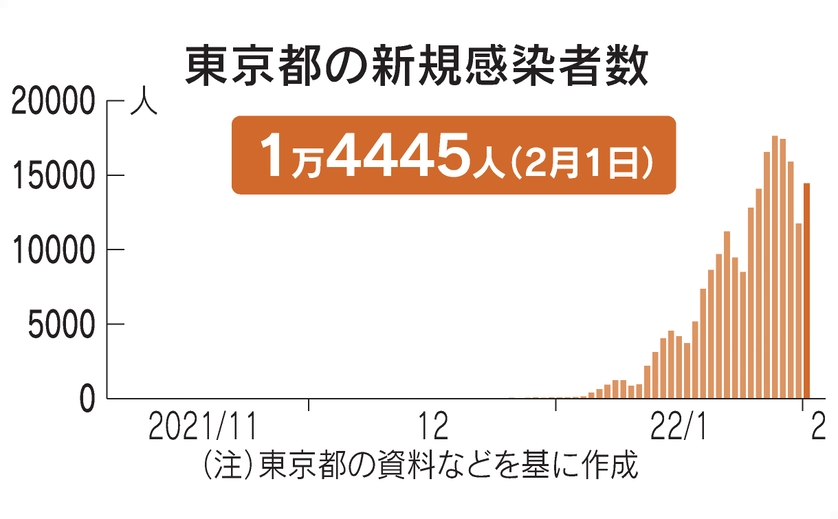
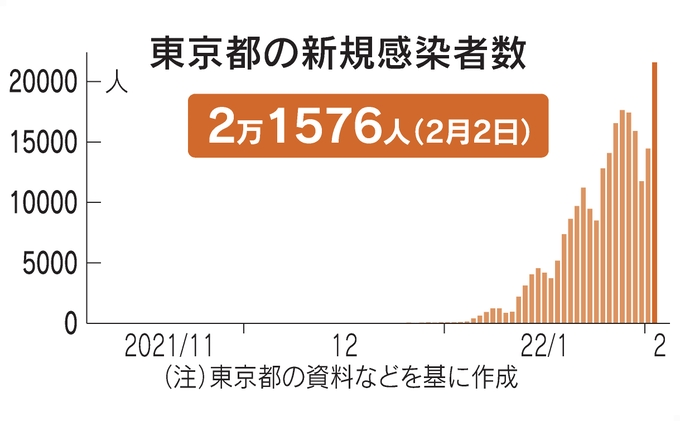
regular update

diff --git a/parts/news.php b/parts/news.php
@@ -40,6 +40,25 @@
         </li> 
 
     <hr> -->
+         2022年02月02日
+    
+        <li>
+                <i class="far fa-file-alt"></i>
+                <a href="https://www.nikkei.com/article/DGXZQOCC0234W0S2A200C2000000/" target="blank" rel="noopener">
+                東京都、新たに2万1576人感染　初の2万人超え</a>
+        </li>
+         <li>
+                <i class="far fa-file-alt"></i>
+                <a href="https://www.nikkei.com/article/DGXZQOUC0212Y0S2A200C2000000/" target="blank" rel="noopener">
+                オミクロン感染確率、店内対策で3分の1　「富岳」試算</a>
+        </li>
+        <li>
+                <i class="far fa-file-alt"></i>
+                <a href="https://www.nikkei.com/article/DGXZQOUC012WT0R00C22A2000000/" target="blank" rel="noopener">
+                オミクロン派生型、感染リスクは主流の2倍以上か ここまで分かったオミクロン型</a>
+        </li> 
+
+    <hr>
          2022年02月01日
     
         <li>
